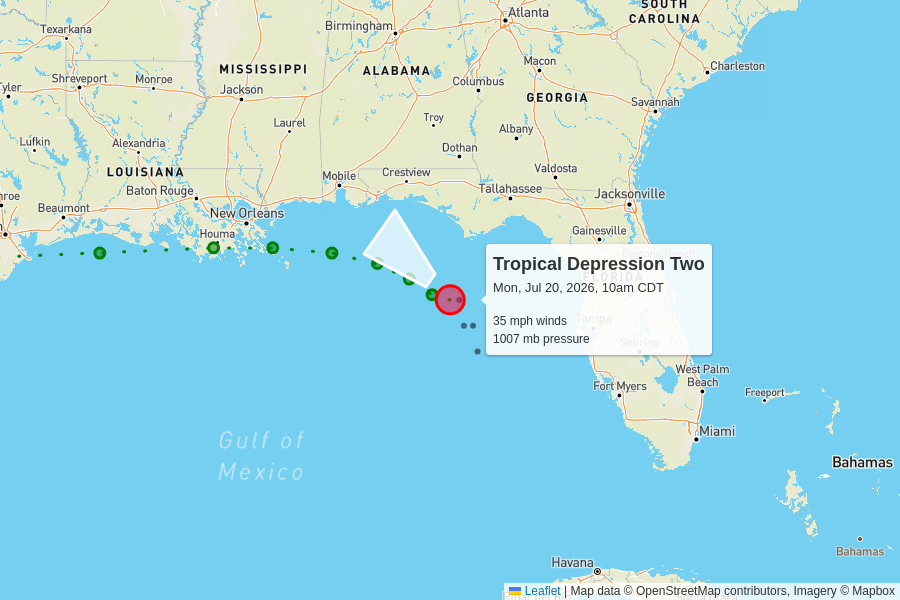
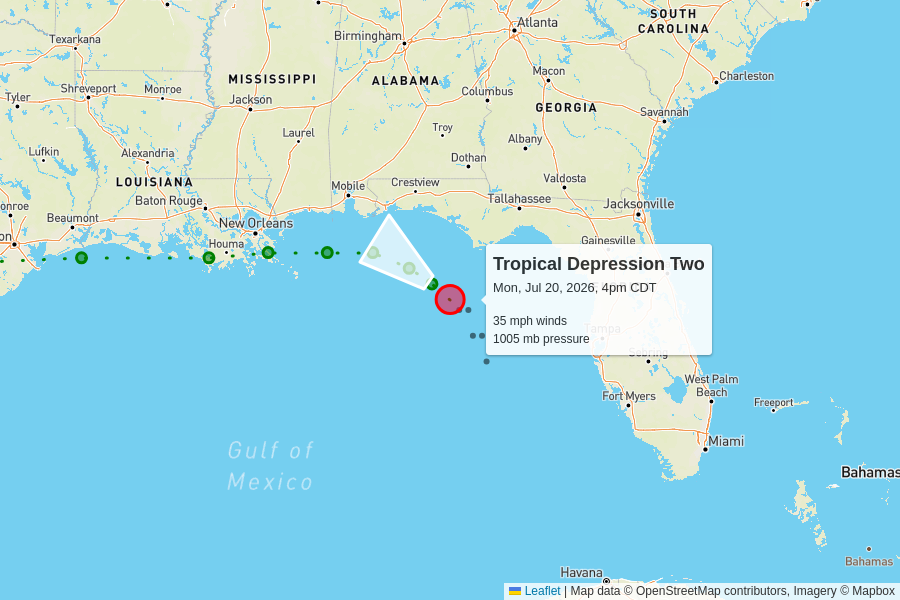
automatic update

diff --git a/docs/index.html b/docs/index.html
@@ -102,7 +102,7 @@
         <td colspan="6" class="storm category-0" >
           <h2>
             Tropical Depression Two
-            <p class="updated">last updated <span data-time>2026-07-20T15:00:00.000Z</span></p>
+            <p class="updated">last updated <span data-time>2026-07-20T21:00:00.000Z</span></p>
           </h2>
         </td>
       </tr>
@@ -118,11 +118,11 @@
       <tr>
         <td class="spacer"></td>
         <td>35 mph<br>0 mph since last update</td>
-        <td>1007 mb<br>+1 mb since last update</td>
+        <td>1005 mb<br>-2 mb since last update</td>
         <td>
           3 mph to the northwest
           <br/>
-          <span style="display: inline-block; font-size: 1.5em; transform: rotate(310deg);">↑</span>
+          <span style="display: inline-block; font-size: 1.5em; transform: rotate(305deg);">↑</span>
         </td>
         <td><a href="https://raw.githubusercontent.com/mgwalker/atlantic-hurricanes/main/data/csv/AL022026.csv">AL022026.csv</a></td>
         <td><a href="https://www.nhc.noaa.gov/archive/2026/TWO.shtml?">NHC advisories</a></td>